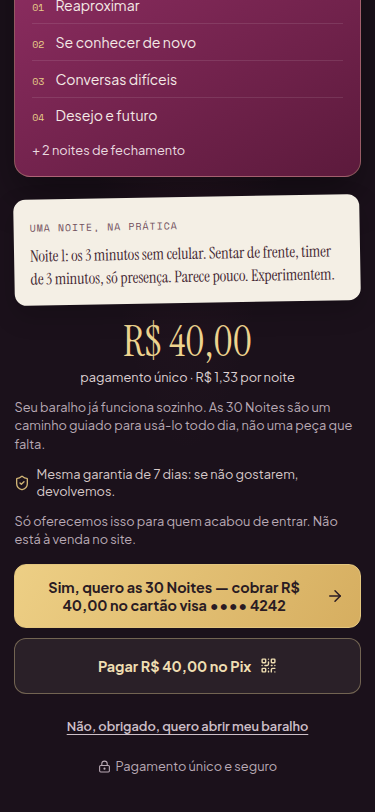
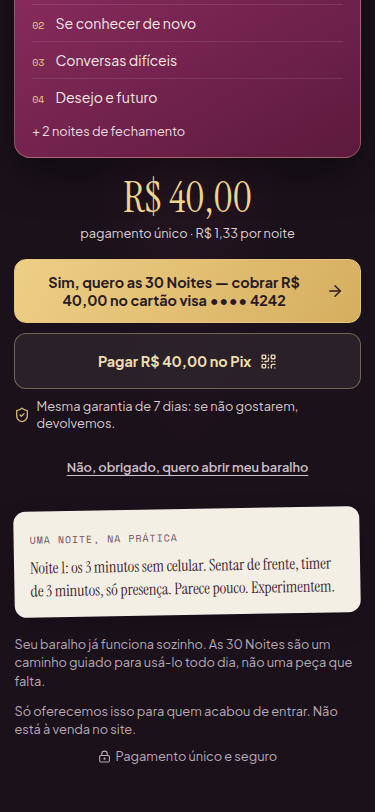
Update upsell visual assets and component styles
Replit-Commit-Author: Agent

diff --git a/artifacts/perguntas-de-conexao/src/pages/UpsellOffer.tsx b/artifacts/perguntas-de-conexao/src/pages/UpsellOffer.tsx
@@ -244,12 +244,12 @@ export default function UpsellOffer({ sessionId, initialState, stripePromise, on
             <div><p>Pagamento confirmado · link do baralho a caminho no e-mail</p></div>
           </div>
           {isUpsell && <div className="up-offer-hero"><img src="/hero/bridge-casal-sofa.webp" loading="eager" alt="" /><div /></div>}
-          <section className={`up-offer-content ${isUpsell ? "up-offer-content--hero" : ""}`}>
+          <section className={`up-offer-content ${isUpsell ? "up-offer-content--hero" : "up-offer-content--down"}`}>
             {isUpsell ? (
               <>
                 <p className="up-offer-eyebrow">Um caminho para continuar</p>
                 <h1>Antes de abrir o baralho: 1 coisa que só aparece <em>agora.</em></h1>
-                <p className="up-offer-lead">Vocês compraram para conversar de verdade. Em 30 noites, isso vira hábito, não só uma noite boa.</p>
+                <p className="up-offer-lead">Em 30 noites, a conversa deixa de ser exceção e vira rotina de vocês.</p>
                 <div className="up-offer-program">
                   <div className="up-offer-program-top"><span>PROGRAMA GUIADO · 30 DIAS</span></div>
                   <h2>30 Noites de Conexão</h2>
@@ -262,11 +262,7 @@ export default function UpsellOffer({ sessionId, initialState, stripePromise, on
                   </ul>
                   <p className="up-offer-program-extra">+ 2 noites de fechamento</p>
                 </div>
-                <blockquote className="up-offer-example"><span>UMA NOITE, NA PRÁTICA</span><p>Noite 1: os 3 minutos sem celular. Sentar de frente, timer de 3 minutos, só presença. Parece pouco. Experimentem.</p></blockquote>
                 <div className="up-offer-price"><strong>R$ 40,00</strong><span>pagamento único · R$ 1,33 por noite</span></div>
-                <p className="up-offer-reassurance">Seu baralho já funciona sozinho. As 30 Noites são um caminho guiado para usá-lo todo dia, não uma peça que falta.</p>
-                <p className="up-offer-guarantee"><ShieldCheck size={16} /> Mesma garantia de 7 dias: se não gostarem, devolvemos.</p>
-                <p className="up-offer-fine">Só oferecemos isso para quem acabou de entrar. Não está à venda no site.</p>
               </>
             ) : (
               <>
@@ -275,17 +271,17 @@ export default function UpsellOffer({ sessionId, initialState, stripePromise, on
                 <div className="up-offer-program">
                   <div className="up-offer-program-top"><span>PROGRAMA GUIADO · 7 DIAS</span></div>
                   <h2>7 Noites de Conexão</h2>
-                  <p>1 noite por dia, de 5 a 30 minutos. Um começo leve para reaproximar.</p>
+                  <p>7 noites: 2 perguntas e 1 pequeno gesto por dia. A primeira semana de vocês, guiada.</p>
                   <ul className="up-offer-weeks">
                     <li><span>01</span><span>Reaproximar</span></li>
                   </ul>
+                  <p className="up-offer-program-extra">Noites 1 a 7, uma por dia</p>
                 </div>
                 <div className="up-offer-price"><strong>R$ 15,00</strong><span>Pagamento único</span></div>
                 <p className="up-offer-guarantee"><ShieldCheck size={16} /> Mesma garantia de 7 dias.</p>
               </>
             )}
 
-            {error && <p className="up-offer-error" role="alert">{error}</p>}
             {!pix && !pixExpired && (
               <div className="up-offer-actions">
                 {cardAvailable && (
@@ -302,6 +298,8 @@ export default function UpsellOffer({ sessionId, initialState, stripePromise, on
                 )}
               </div>
             )}
+            {isUpsell && <p className="up-offer-guarantee"><ShieldCheck size={16} /> Mesma garantia de 7 dias: se não gostarem, devolvemos.</p>}
+            {error && <p className="up-offer-error" role="alert">{error}</p>}
             {pix && !pixExpired && (
               <div className="checkout-pix-panel up-offer-pix-panel">
                 <div className="checkout-pix-heading"><QrCode size={19} /><div><strong>Pix gerado</strong><span>aguardando confirmação do banco</span></div></div>
@@ -318,6 +316,13 @@ export default function UpsellOffer({ sessionId, initialState, stripePromise, on
               <div className="up-offer-expired"><p>Este Pix expirou.</p><button className="up-offer-primary" type="button" onClick={createPix}>Gerar outro Pix</button></div>
             )}
             <button className="up-offer-decline" type="button" onClick={decline} disabled={cardBusy}>{leaveLabel}</button>
+            {isUpsell && (
+              <>
+                <blockquote className="up-offer-example"><span>UMA NOITE, NA PRÁTICA</span><p>Noite 1: os 3 minutos sem celular. Sentar de frente, timer de 3 minutos, só presença. Parece pouco. Experimentem.</p></blockquote>
+                <p className="up-offer-reassurance">Seu baralho já funciona sozinho. As 30 Noites são um caminho guiado para usá-lo todo dia, não uma peça que falta.</p>
+                <p className="up-offer-fine">Só oferecemos isso para quem acabou de entrar. Não está à venda no site.</p>
+              </>
+            )}
             <p className="up-offer-secure"><LockKeyhole size={13} /> Pagamento único e seguro</p>
           </section>
         </div>

diff --git a/artifacts/perguntas-de-conexao/src/index.css b/artifacts/perguntas-de-conexao/src/index.css
@@ -557,15 +557,19 @@
 .up-offer-check { display: grid; width: 1.35rem; height: 1.35rem; flex: 0 0 auto; place-items: center; border-radius: 50%; background: #d9bb79; color: #291a22; }
 .up-offer-paid div { min-width: 0; }
 .up-offer-paid p { margin: 0; color: #c1b2bc; font-size: .8rem; line-height: 1.35; }
-.up-offer-hero { position: relative; height: 220px; overflow: hidden; }
+.up-offer-hero { position: relative; height: 160px; overflow: hidden; }
 .up-offer-hero img { display: block; width: 100%; height: 100%; object-fit: cover; object-position: center 40%; }
 .up-offer-hero div { position: absolute; inset: 30% 0 0; background: linear-gradient(180deg, transparent, #1b111b); }
+@media (min-width: 700px) {
+  .up-offer-hero { height: 220px; }
+}
 .up-offer-content { padding: .35rem 1.25rem 1.4rem; }
 .up-offer-content--hero { position: relative; margin-top: -3.2rem; }
 .up-offer-eyebrow { margin: .1rem 0 .55rem; color: #d3b976; font: .64rem/1.25 var(--app-font-mono); letter-spacing: .13em; text-transform: uppercase; }
 .up-offer-content h1,
 .up-offer-success h1 { margin: 0; color: #faf4ee; font: 400 clamp(1.8rem, 8vw, 2.55rem)/1.02 var(--app-font-serif); letter-spacing: -.04em; text-wrap: balance; }
 .up-offer-content h1 { font-size: clamp(2rem, 9vw, 2.7rem); }
+.up-offer-content--down h1 { margin-bottom: 20px; }
 .up-offer-content h1 em { color: #e1c681; font-style: italic; font-weight: 400; }
 .up-offer-content .up-offer-eyebrow { margin: .1rem 0 .65rem; font-size: .62rem; }
 .up-offer-content .up-offer-lead { margin: .7rem 0 1.25rem; color: #d9cdd2; font-size: .95rem; line-height: 1.55; }

diff --git a/attached_assets/2026-10-06-upsell-ajuste2_1791304116109.md b/attached_assets/2026-10-06-upsell-ajuste2_1791304116109.md
@@ -1,0 +1,35 @@
+# Prompt — ajuste 2 da tela de upsell/downsell (06/10/2026)
+
+**Origem:** prints da prévia depois do `2026-10-06-upsell-visual.md`. Diretor de Arte (8/10) + Otimizador ("botão abaixo da dobra; resultado vago; downsell parece pouco"). CEO decidiu: **sem foto no downsell** (o botão sobe, que pesa mais que o calor da foto).
+**Status:** Qualidade revisa antes de colar.
+
+---
+
+## Cole no Replit
+
+Ajuste só de layout e texto na tela pós-compra (upsell "30 Noites" e downsell "7 Noites"), no mesmo componente que você alterou no último commit. **Não mexa** em lógica de pagamento, 1 clique no cartão, Pix, rotas `/api/upsell/*`, fila de e-mail, nem na tela de sucesso "baralho liberado". A frase do botão do cartão ("cobrar R$ X no cartão {bandeira} •••• {last4}") continua exatamente igual.
+
+**Upsell (30 Noites):**
+1. Reduza a altura da foto do topo para ~160px no celular (object-fit: cover; mantenha o título sobre/abaixo dela como está).
+2. Logo abaixo do título, troque o lead por: "Em 30 noites, a conversa deixa de ser exceção e vira rotina de vocês."
+3. Reordene o que vem depois do card "30 Noites de Conexão" para: **preço (R$ 40,00 + "pagamento único · R$ 1,33 por noite") → botão do cartão → botão do Pix → linha da garantia de 7 dias → "Não, obrigado, quero abrir meu baralho"**, e só depois: card "Uma noite, na prática", "Seu baralho já funciona sozinho…" e "Só oferecemos isso para quem acabou de entrar…". Objetivo: em 375×812, preço e botão do cartão aparecerem com no máximo 1 rolagem curta.
+
+**Downsell (7 Noites):**
+4. Adicione `margin-bottom: 20px` no título "Tudo bem. Que tal começar só pela primeira semana?" para ele não encostar no card. Não adicione foto.
+5. No card, troque "1 noite por dia, de 5 a 30 minutos. Um começo leve para reaproximar." por: "7 noites: 2 perguntas e 1 pequeno gesto por dia. A primeira semana de vocês, guiada."
+6. Depois do item "01 Reaproximar", acrescente a linha "Noites 1 a 7, uma por dia" no mesmo estilo do "+ 2 noites de fechamento" do upsell.
+
+## Correções da revisão de Qualidade (06/10, obrigatórias)
+- Mexa só em `UpsellOffer.tsx` (JSX do bloco `screen !== "success"`) e no CSS `.up-offer-*`. Nenhuma função, estado ou rota.
+- Hoje a garantia (`up-offer-guarantee`) fica DENTRO do bloco de preço, antes dos botões. No upsell, mova-a para depois do botão do Pix (e antes de `{error}`/painel Pix). No downsell ela continua onde está.
+- `{error}`, `{pix}`, `{pixExpired}` e o botão `decline` mantêm a ordem atual (painel Pix logo após os botões). Os blocos "Uma noite, na prática", "Seu baralho já funciona…" e "Só oferecemos isso…" vão para DEPOIS do `decline` (e antes de "Pagamento único e seguro" ou depois, tanto faz), só no upsell.
+- O item 4 (`margin-bottom: 20px`) vale só para o h1 do downsell: use classe própria (ex.: `.up-offer-content--down h1`), porque `.up-offer-content h1` é compartilhado com a tela de sucesso, que deve ficar idêntica.
+- O texto do botão do cartão continua exatamente o template atual (com `|| ""`); o botão só aparece se `cardAvailable`.
+- Teste extra: gerar Pix no upsell (só gerar, não pagar): painel Pix aparece logo abaixo dos botões, "Não, obrigado" continua clicável e funciona com Pix aberto.
+
+## Checklist de aceite (Qualidade, 375px)
+- [ ] Upsell: foto ~160px; preço e botão do cartão visíveis com ≤1 rolagem curta; ordem preço → cartão → Pix → garantia → "Não, obrigado".
+- [ ] Frase do botão do cartão idêntica (bandeira + últimos 4); com só Pix, aparece só o botão do Pix.
+- [ ] Downsell: título com respiro, texto novo, linha "Noites 1 a 7, uma por dia"; sem foto.
+- [ ] "Não, obrigado" → downsell → "Não, quero abrir meu baralho" → tela "baralho liberado" igual a antes.
+- [ ] Nada mudou no checkout nem na oferta.
